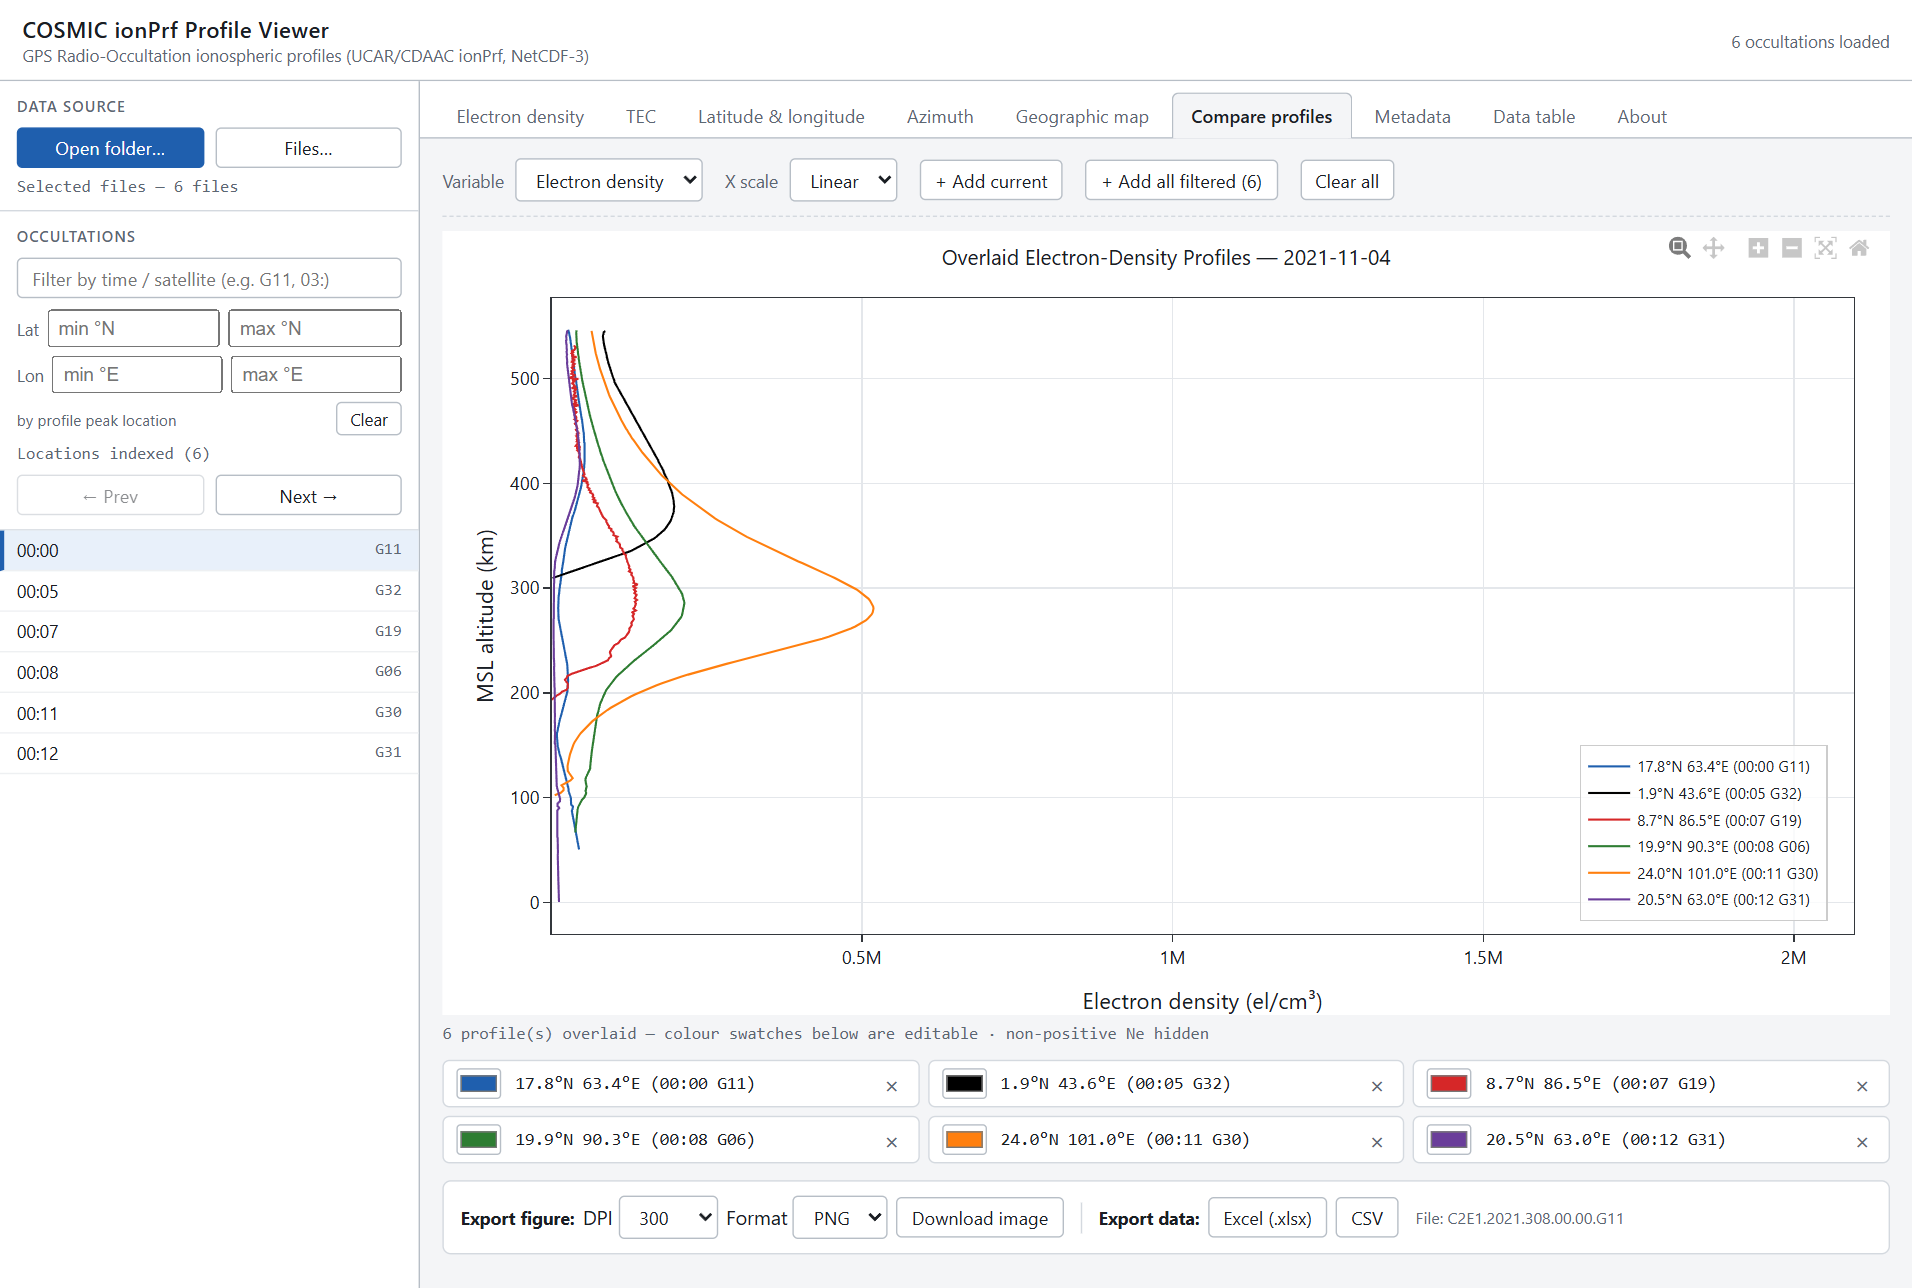
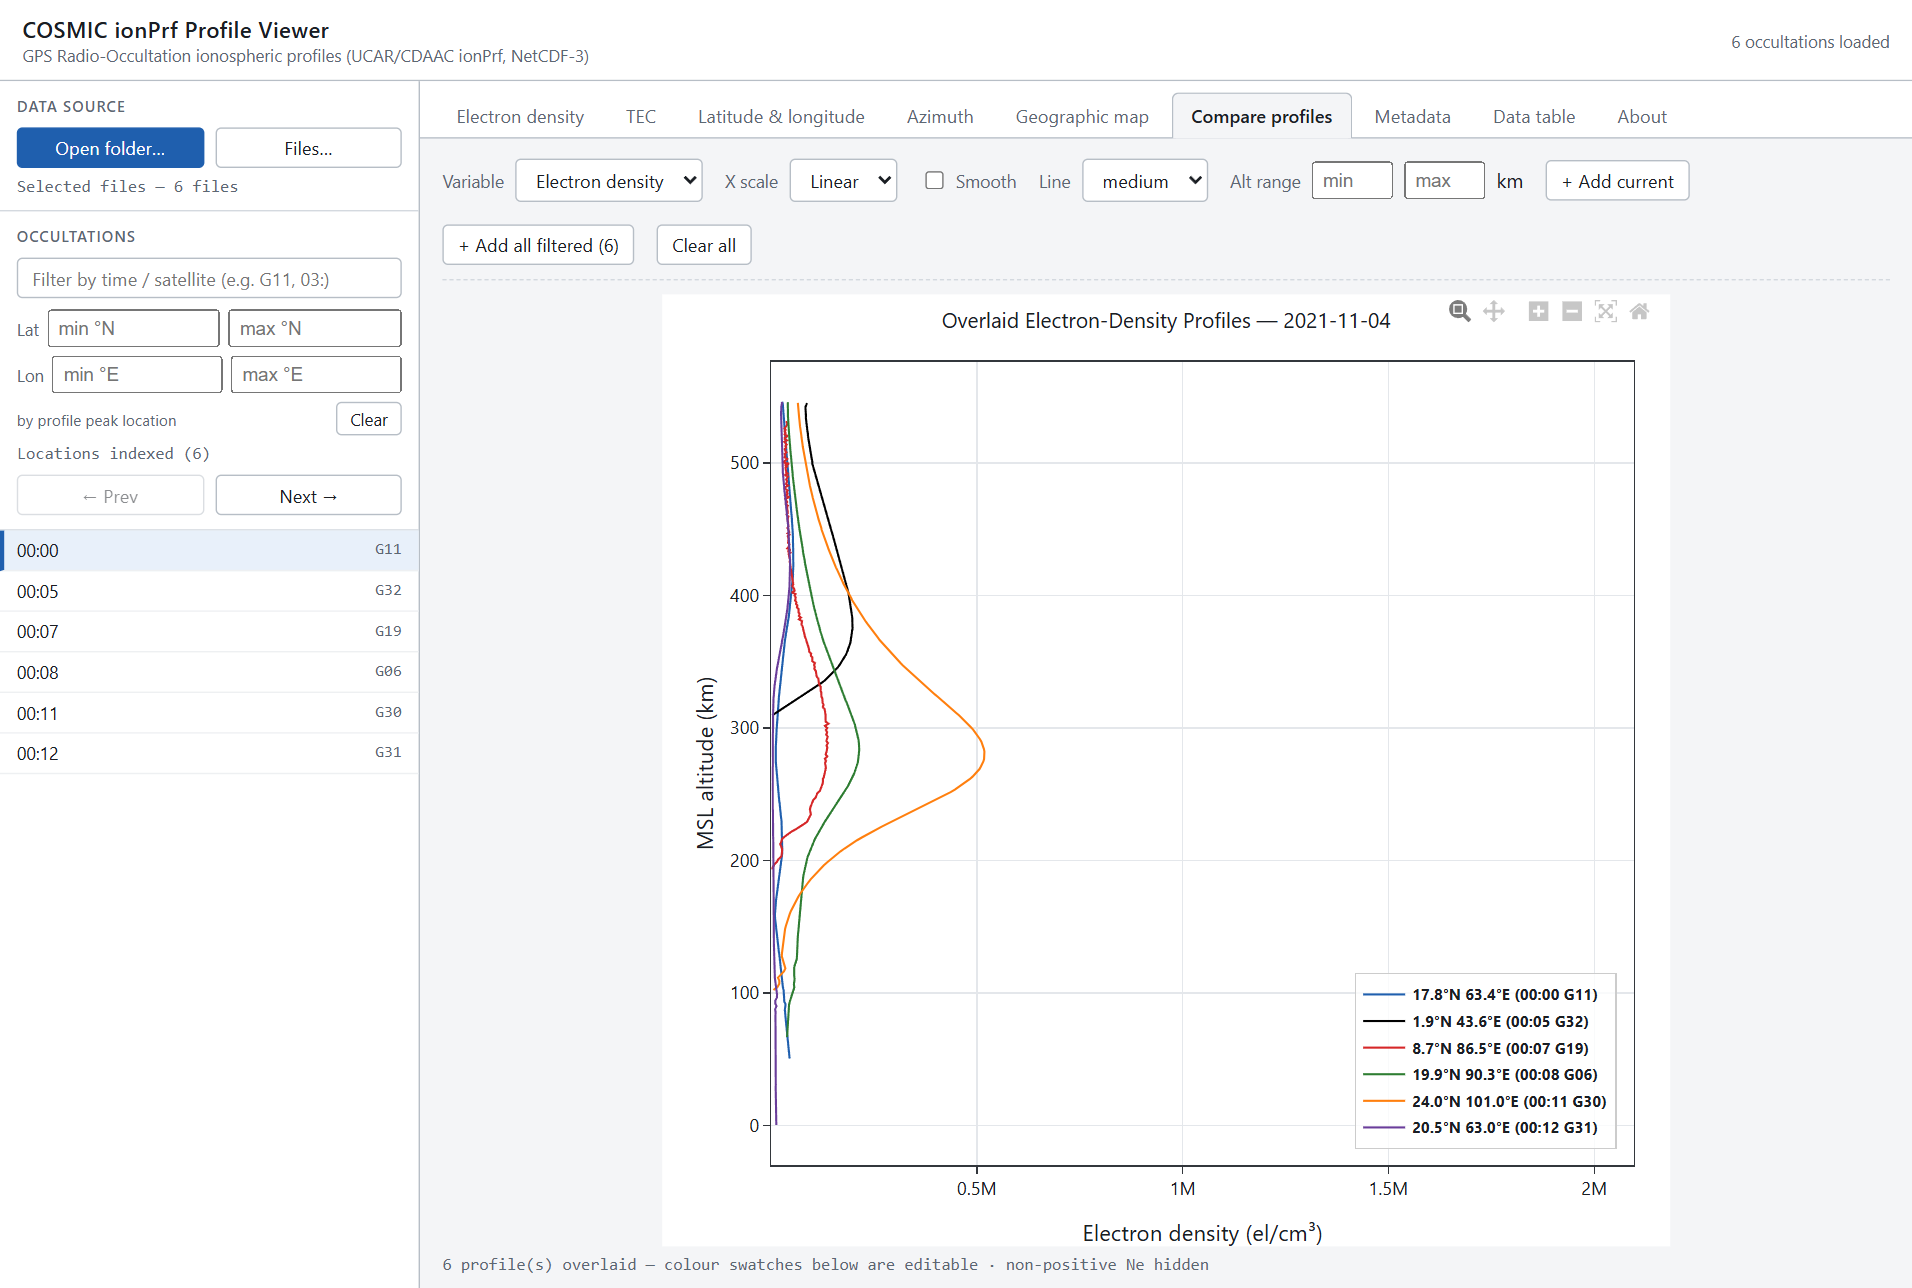
Beautify profile plots and add display options
- Profile plots (electron density, TEC, azimuth, Compare) now render as a
  portrait panel instead of a very wide landscape one, matching the
  conventional altitude-vs-density layout; exports use the same aspect.
- Compare view gains display options: optional line smoothing (spline),
  line width, and an altitude-range crop to focus on the F-region and drop
  noisy low-altitude samples.
- Line smoothing is opt-in and OFF by default; when on it is labelled a
  display aid (tooltip + "smoothed (display only)" note) since spline curves
  between samples are not guaranteed to be technically exact.

diff --git a/app.js b/app.js
@@ -35,7 +35,8 @@
     stamp: '',
     view: 'edens',
     opts: { edScale: 'linear', edMaskNonPos: true, edMarkPeak: true, tecScale: 'linear',
-            cmpVar: 'ed', cmpScale: 'linear' },
+            cmpVar: 'ed', cmpScale: 'linear', cmpSmooth: false, cmpWidth: 1.5,
+            cmpAltMin: '', cmpAltMax: '' },
     baseW: 760, baseH: 600,
     compare: [], // [{name,file,time,prn,lat,lon,color,data:{alt,ed,tec},attrs,label}]
   };
@@ -338,6 +339,12 @@
     els.dlCsvBtn.disabled = !hasData;
     els.exportHint.textContent = hasData ? ('File: ' + state.stamp) : '';
 
+    // Single-profile plots read better as a portrait panel; wide/2-panel views stay full width.
+    var narrow = (v === 'edens' || v === 'tec' || v === 'azi' || v === 'compare');
+    els.plot.style.maxWidth = narrow ? '720px' : '';
+    els.plot.style.margin = narrow ? '0 auto' : '';
+    els.plot.style.height = narrow ? '680px' : '560px';
+
     if (v === 'about') { renderAbout(); return; }
     if (!hasData) return;
     if (v === 'edens') renderEdens();
@@ -387,7 +394,7 @@
 
   // ----- Electron density -----
   function renderEdens() {
-    state.baseW = 760; state.baseH = 600;
+    state.baseW = 720; state.baseH = 720;
     setControls(
       '<div class="group"><label>X scale</label>' +
       '<select id="edScale"><option value="linear">Linear</option><option value="log">Log</option></select></div>' +
@@ -437,7 +444,7 @@
 
   // ----- TEC -----
   function renderTec() {
-    state.baseW = 720; state.baseH = 600;
+    state.baseW = 700; state.baseH = 720;
     setControls('<div class="group"><label>X scale</label>' +
       '<select id="tecScale"><option value="linear">Linear</option><option value="log">Log</option></select></div>');
     $('tecScale').value = state.opts.tecScale;
@@ -486,7 +493,7 @@
 
   // ----- Azimuth -----
   function renderAzi() {
-    state.baseW = 720; state.baseH = 600;
+    state.baseW = 700; state.baseH = 720;
     setControls('');
     var lay = layout('Occultation-Plane Azimuth vs Altitude', 'Azimuth w.r.t. north (°)', 'MSL altitude (km)');
     Plotly.react(els.plot, [{
@@ -592,25 +599,39 @@
   function clearCompare() { state.compare = []; renderCompare(); }
 
   function renderCompare() {
-    state.baseW = 780; state.baseH = 600;
+    state.baseW = 740; state.baseH = 720;
     var o = state.opts;
     setControls(
       '<div class="group"><label>Variable</label>' +
       '<select id="cmpVar"><option value="ed">Electron density</option><option value="tec">TEC</option></select></div>' +
       '<div class="group"><label>X scale</label>' +
       '<select id="cmpScale"><option value="linear">Linear</option><option value="log">Log</option></select></div>' +
+      '<label title="Display aid only: draws spline curves between samples. The data is unchanged and the curve may not be exact between points.">' +
+      '<input type="checkbox" id="cmpSmooth"> Smooth</label>' +
+      '<div class="group"><label>Line</label><select id="cmpWidth">' +
+      '<option value="1">thin</option><option value="1.5">medium</option><option value="2.5">thick</option></select></div>' +
+      '<div class="group"><label>Alt range</label>' +
+      '<input id="cmpAltMin" class="mini" type="number" placeholder="min"> ' +
+      '<input id="cmpAltMax" class="mini" type="number" placeholder="max"> km</div>' +
       '<button id="cmpAdd" class="cmp-btn">+ Add current</button>' +
       '<button id="cmpAddAll" class="cmp-btn">+ Add all filtered (' + state.filtered.length + ')</button>' +
       '<button id="cmpClear" class="cmp-btn">Clear all</button>');
     $('cmpVar').value = o.cmpVar; $('cmpScale').value = o.cmpScale;
+    $('cmpSmooth').checked = o.cmpSmooth; $('cmpWidth').value = String(o.cmpWidth);
+    $('cmpAltMin').value = o.cmpAltMin; $('cmpAltMax').value = o.cmpAltMax;
     $('cmpVar').addEventListener('change', function () { o.cmpVar = this.value; renderCompare(); });
     $('cmpScale').addEventListener('change', function () { o.cmpScale = this.value; renderCompare(); });
+    $('cmpSmooth').addEventListener('change', function () { o.cmpSmooth = this.checked; renderCompare(); });
+    $('cmpWidth').addEventListener('change', function () { o.cmpWidth = parseFloat(this.value); renderCompare(); });
+    $('cmpAltMin').addEventListener('input', function () { o.cmpAltMin = this.value; applyCompareY(); });
+    $('cmpAltMax').addEventListener('input', function () { o.cmpAltMax = this.value; applyCompareY(); });
     $('cmpAdd').addEventListener('click', addCurrentToCompare);
     $('cmpAddAll').addEventListener('click', addAllFiltered);
     $('cmpClear').addEventListener('click', clearCompare);
 
     var vkey = o.cmpVar;
     var vlabel = vkey === 'ed' ? 'Electron density (el/cm³)' : 'TEC (TECU)';
+    var shape = o.cmpSmooth ? 'spline' : 'linear';
     var traces = state.compare.filter(function (e) { return e.data; }).map(function (e) {
       var x = e.data[vkey];
       if (vkey === 'ed') { // hide non-physical (<=0) densities so the overlay stays readable
@@ -619,7 +640,7 @@
         x = m;
       }
       return { x: x, y: e.data.alt, mode: 'lines', type: 'scatter', name: e.label,
-               line: { color: e.color, width: 1.5 },
+               line: { color: e.color, width: o.cmpWidth, shape: shape, smoothing: o.cmpSmooth ? 1.0 : 0 },
                hovertemplate: '%{x:.3s}<br>%{y:.1f} km<extra>' + e.label + '</extra>' };
     });
     var day = '';
@@ -627,6 +648,8 @@
     if (first && first.attrs) { var a = first.attrs; day = ' — ' + a.year + '-' + pad2(a.month) + '-' + pad2(a.day); }
     var lay = layout('Overlaid ' + (vkey === 'ed' ? 'Electron-Density' : 'TEC') + ' Profiles' + day, vlabel, 'MSL altitude (km)');
     if (o.cmpScale === 'log') lay.xaxis.type = 'log';
+    var aLo = parseFloat(o.cmpAltMin), aHi = parseFloat(o.cmpAltMax);
+    if (isFinite(aLo) && isFinite(aHi)) { lay.yaxis.range = [aLo, aHi]; lay.yaxis.autorange = false; }
     lay.showlegend = true;
     lay.legend = { x: 0.98, y: 0.02, xanchor: 'right', yanchor: 'bottom',
                    bgcolor: 'rgba(255,255,255,0.78)', bordercolor: '#ccc', borderwidth: 1, font: { size: 11, weight: 'bold' } };
@@ -644,7 +667,8 @@
     }
     els.statline.textContent = state.compare.length + ' profile(s) overlaid' +
       (state.compare.length ? '  —  colour swatches below are editable' : '') +
-      (state.compare.length && vkey === 'ed' ? '  ·  non-positive Ne hidden' : '');
+      (state.compare.length && vkey === 'ed' ? '  ·  non-positive Ne hidden' : '') +
+      (state.compare.length && o.cmpSmooth ? '  ·  smoothed (display only)' : '');
   }
 
   // Colour change / removal (delegated; list DOM is rebuilt on structural change)
@@ -662,6 +686,11 @@
     // update line colours in place without rebuilding the list (keeps picker open)
     var colors = state.compare.filter(function (e) { return e.data; }).map(function (e) { return e.color; });
     Plotly.restyle(els.plot, { 'line.color': colors });
+  }
+  function applyCompareY() {
+    var lo = parseFloat(state.opts.cmpAltMin), hi = parseFloat(state.opts.cmpAltMax);
+    if (isFinite(lo) && isFinite(hi)) Plotly.relayout(els.plot, { 'yaxis.range': [lo, hi], 'yaxis.autorange': false });
+    else Plotly.relayout(els.plot, { 'yaxis.autorange': true });
   }
 
   // ----- Metadata -----

diff --git a/styles.css b/styles.css
@@ -194,6 +194,7 @@ table.data tr:hover td { background: #f6f9fc; }
 .cmp-row .cmp-rm:hover { color: var(--warn); }
 .cmp-empty { grid-column: 1 / -1; color: var(--muted); font-size: 13px; padding: 10px 0; }
 .controls button.cmp-btn { padding: 5px 10px; }
+.controls input.mini { width: 58px; padding: 4px 6px; font-variant-numeric: tabular-nums; }
 
 /* ---- About ---- */
 .about-panel { max-width: 720px; }

diff --git a/README.md b/README.md
@@ -33,7 +33,7 @@ vendored in `lib/`, so it works fully offline.
 | **Latitude & longitude** | `GEO_lat` and `GEO_lon` perigee-point coordinates vs altitude, side by side. |
 | **Azimuth** | `OCC_azi` (occultation-plane azimuth w.r.t. north) vs altitude. |
 | **Geographic map** | Perigee-point track on a coastline map, coloured by altitude, with the edmax point marked. |
-| **Compare profiles** | Overlay many same-day profiles (electron density or TEC) on one plot, each in a distinct **user-chosen colour**, with a legend labelled by latitude/longitude and time. Build a group with the lat/lon filter then **Add all filtered**, or **Add current** one at a time; click any swatch to recolour. Exports at 300/600/1000 DPI like every other view. |
+| **Compare profiles** | Overlay many same-day profiles (electron density or TEC) on one plot, each in a distinct **user-chosen colour**, with a legend labelled by latitude/longitude and time. Build a group with the lat/lon filter then **Add all filtered**, or **Add current** one at a time; click any swatch to recolour. Display options: optional **line smoothing** (off by default — a visual aid only, the data is not resampled), **line width**, and an **altitude-range crop** to focus on the F-region. Exports at 300/600/1000 DPI like every other view. |
 | **Metadata** | Observation time, satellite IDs, edmax & location, critical frequency, TEC params, endpoints, processing/provenance, and computed per-variable statistics. |
 | **Data table** | All rows, raw values; `−999` fill values flagged in colour. |
 | **About** | Tool description, author, repository and data-source links. |
